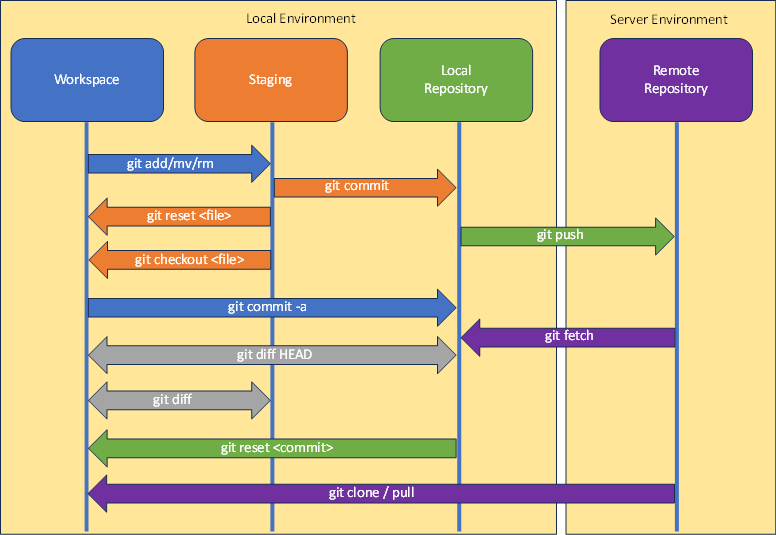
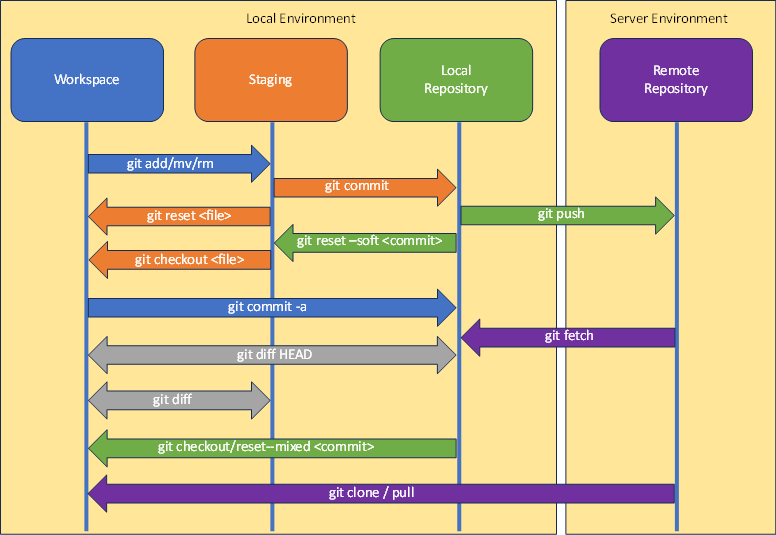
commit 2

diff --git a/readme.md b/readme.md
@@ -107,7 +107,7 @@ Agregar al último commit, este no se muestra como un nuevo commit en los logs. 
 ```ssh
 	git commit --amend -m "Texto que identifique por qué se hizo el commit"
 ```
-**`git cherry-pick`**: Aplica los cambios de un commit específico a la rama actual
+El comando `git cherry-pick` aplica los cambios de un commit específico en otra ubicación la rama actual u otra rama.
 ```ssh
 	git cherry-pick <commit_sha>
 ```
@@ -137,11 +137,24 @@ Muestra gráficos de los commits
 ```ssh
 	git log --oneline --graph
 ```
-**`git blame`**: Muestra quién modificó cada línea de un archivo y en qué commit se realizó el cambio
+El comando `git blame` muestra quién modificó cada línea de un archivo y en qué commit se realizó el cambio
 ```ssh
 	git blame <archivo>
 ```
+El comando `git reflog` examina un registro de donde han estado todas las cabezas de tus ramas mientras trabajas para encontrar commits que puedes haber perdido después de realizar operaciones como reset, rebase, checkout, entre otras.
 
+```ssh
+	git reflog
+```
+Muestra información detallada sobre un commit específico
+```ssh
+	git show <commit>
+```
+
+Muestra un resumen de todos los commits agrupados por autor.
+```ssh
+	git shortlog
+```
 ## Comparación de Archivos
 
 Muestra los cambios realizados a un archivo
@@ -150,33 +163,52 @@ Muestra los cambios realizados a un archivo
 	git diff --staged
 ```
 
-## Deshacer Cambios
+## Reset
+
+#### Tipos
+- **git reset --soft**: Este comando mueve la punta de la rama y el HEAD al commit especificado, pero conserva los cambios realizados en los commits posteriores en el área de preparación (stage). Esto significa que los cambios permanecen preparados para ser confirmados nuevamente. Es útil para deshacer un commit pero conservar los cambios para realizar ajustes antes de confirmarlos nuevamente.
+
+- **git reset --mixed**: Similar a `git reset --soft`, este comando mueve la punta de la rama y el HEAD al commit especificado, pero los cambios realizados en los commits posteriores no se colocan en el área de preparación. Los cambios permanecen en el directorio de trabajo como modificaciones no preparadas. Es útil para deshacer un commit y revisar los cambios antes de prepararlos para una nueva confirmación.
+
+- **git reset --hard**: Este comando mueve la punta de la rama y el HEAD al commit especificado, y elimina completamente los cambios realizados en los commits posteriores tanto del árbol de confirmaciones como del directorio de trabajo. Es una operación destructiva y no reversible que deshace completamente los cambios, por lo que debes tener cuidado al usarlo, ya que los cambios no confirmados se perderán permanentemente.
+
+#### Ejemplos
 
 Saca un archivo del commit
 ```ssh
 	git reset HEAD <archivo>
 ```
-Devuelve el último commit que se hizo y pone los cambios en staging
+Revierte el último commit que se hizo y pone los cambios en staging
 ```ssh
 	git reset --soft HEAD^
 ```
-Devuelve el último commit y todos los cambios
+Revierte el último commit y todos los cambios
 ```ssh
 	git reset --hard HEAD^
 ```
-Devuelve los 2 últimos commit y todos los cambios
+Revierte los 2 últimos commit y todos los cambios
 ```ssh
 	git reset --hard HEAD^^
 ```
-Rollback merge/commit
+Rollback o revertir los efectos de un `git reset` anterior, restaurando el repositorio como estaba en estado anterior.
 ```ssh
 	git log
 	git reset --hard <commit_sha>
 ```
-**`git revert`**: Crea un nuevo commit que deshace los cambios realizados en un commit específico
-```ssh
-	git revert <commit_sha>
-```
+## Revertir un Commit
+
+El comando `git revert -n <commit>` se utiliza para revertir un commit específico sin realizar automáticamente un commit después de la reversión. El argumento opcional `-n` indica que no se debe hacer un commit automático después de revertir los cambios del commit especificado. Si no se aplica el argumento, se generará un nuevo commit derivado del revert.
+
+**Intervención del Usuario**: El usuario modifica el contenido del archivo(s) afectado por el commit a revertir según sea necesario para deshacer los cambios introducidos por ese commit.
+
+`git add <archivo>`: Después de realizar las modificaciones necesarias, el usuario agrega el(s) archivo(s) modificado(s) al área de preparación para incluirlos en el próximo commit.
+
+`git commit -m "<mensaje>"`: Finalmente, el usuario hace un commit para confirmar la reversión de los cambios del commit especificado. Se proporciona un mensaje descriptivo que indique la acción realizada, como "Revertir cambios del commit `<hash>`".
+
+**Rollback**: Si se desea deshacer los cambios producidos por un `git revert` de manera más drástica y eliminar permanentemente los commits posteriores, se puede utilizar `git reset --hard <commit>`. Esto restablecerá el HEAD y el estado del directorio de trabajo al estado de un commit específico, eliminando los commits posteriores y restaurando el repositorio al estado en que estaba en ese commit. Es importante tener en cuenta que `git reset --hard` es irreversible y puede causar la pérdida permanente de datos, por lo que debe usarse con precaución.
+
+En resumen, tanto `git revert` como `git reset --hard` proporcionan formas de revertir cambios en un repositorio de Git, cada uno con sus propias implicaciones y niveles de control. El uso del argumento `-n` con `git revert` brinda la flexibilidad de realizar modificaciones adicionales antes de confirmar la reversión con un nuevo commit, mientras que `git reset --hard` ofrece una solución más drástica para deshacer los cambios y realizar un rollback en el historial de commits.
+
 
 ## Repositorios Remotos
 
@@ -224,7 +256,7 @@ Elimina sin preguntar
 	git branch -D <nameBranch>
 ```
 
-**`git bisect`**: Ayuda a encontrar el commit que introdujo un error o problema específico mediante una búsqueda binaria
+El comando `git bisect` ayuda a encontrar el commit que introdujo un error o problema específico mediante una búsqueda binaria
 ```ssh
 	git bisect start
 	git bisect bad
@@ -252,30 +284,33 @@ Eliminar una etiqueta en el repositorio remoto
 
 ## Rebase
 
-Los rebase se usan cuando trabajamos con branches esto hace que los branches se pongan al día con el master sin afectar al mismo
+El comando `git rebase` se utiliza para reorganizar, editar y combinar commits durante la integración de cambios de una rama a otra. Esto es especialmente útil cuando deseas actualizar una rama con los cambios de otra rama (como `master`) de una manera más limpia y ordenada. El rebase une el historial de commits de una rama con el de otra, aplicando los commits uno a uno en orden cronológico.
 
-Une el branch actual con el master, esto no se puede ver como un merge
-```ssh
-	git rebase
-```
-Cuando se produce un conflicto no das las siguientes opciones:
+#### Opciones del Rebase Interactivo `-i`:
 
-Cuando resolvemos los conflictos --continue continua la secuencia del rebase donde se pausó
-```ssh	
-	git rebase --continue 
-```
-Omite el conflicto y sigue su camino
-```ssh
-	git rebase --skip
-```
-Devuelve todo al principio del rebase
-```ssh
-	git rebase --abort
-```
-Para hacer un rebase a un branch en especifico
-```ssh	
-	git rebase <nameBranch>
-```
+- **Pick**: Mantiene el commit tal como está.
+
+- **Reword**: Cambia el mensaje de confirmación de un commit.
+
+- **Edit**: Detiene el rebase en un commit para realizar cambios.
+
+- **Squash**: Combina un commit con su commit anterior.
+
+- **Fixup**: Combina un commit con el commit anterior, descartando su mensaje de confirmación.
+
+- **Drop**: Elimina el commit del historial.
+
+- **Move Up** y **Move Down**: Reordena los commits durante el rebase interactivo.
+
+- **Search**: Busca un commit por su mensaje de confirmación.
+
+#### Ejemplos de Uso:
+
+- `git rebase`: Une el branch actual con el master, actualizando el branch con los cambios de master.
+- `git rebase <nameBranch>`: Realiza un rebase del branch actual a otro branch especificado.
+- `git rebase --continue`: Continúa la secuencia del rebase después de resolver conflictos.
+- `git rebase --skip`: Omite un conflicto y continúa el rebase.
+- `git rebase --abort`: Cancela el rebase y vuelve al estado previo al rebase.
 
 ## Otros Comandos
 
@@ -311,6 +346,21 @@ Borrar un archivo del repositorio
 ```ssh
 	git rm <archivo> 
 ```
+## Clean
+
+El comando `git clean` se utiliza para eliminar archivos no rastreados en el directorio de trabajo. Los archivos no rastreados son aquellos que no están bajo control de versiones de Git, es decir, que no han sido añadidos al repositorio ni incluidos en el área de preparación (staging).
+
+#### Ejemplo:
+
+Supongamos que tienes un repositorio de Git con algunos archivos no rastreados en tu directorio de trabajo. Para eliminar estos archivos no rastreados, puedes utilizar el comando `git clean`.
+
+```ssh
+# Lista los archivos no rastreados que serán eliminados (dry-run)
+	git clean -n
+
+# Elimina los archivos no rastreados
+	git clean -f
+```
 
 ## Fork
 
@@ -325,9 +375,7 @@ Merge con master de un fork
 	git merge upstream/master
 ```
 
-Falta abordar el comando `git stash`, que es útil cuando deseas guardar temporalmente cambios sin hacer commit para trabajar en otra tarea o resolver algún problema urgente.
-
-## Almacenar Cambios Temporalmente
+## Stash
 
 Guardar cambios sin hacer commit
 ```ssh
@@ -365,5 +413,181 @@ Limpiar todos los cambios almacenados en el stash
 ```ssh
 	git stash clear
 ```
+Crea una nueva rama a partir de los cambios almacenados en el stash.
+supongamos tener una rama features y queres aplicar ese cambio en otra que se llamaria hotfix 
+```ssh
+	git checkout features  # Cambia a la rama features
+	git stash              # Guarda los cambios en el stash
+	git stash branch hotfix stash@{0}  # Crea una nueva rama hotfix a partir de los cambios guardados en el stash
+```
 
 El comando `git stash` es muy útil cuando estás en medio de cambios y necesitas cambiar rápidamente a otra tarea o rama sin hacer commit de los cambios actuales. Te permite guardar temporalmente esos cambios en un "stash" y luego recuperarlos más tarde cuando estés listo para continuar trabajando en ellos.
+
+## Grep
+
+El comando `git grep` se utiliza para buscar patrones de texto en los archivos del repositorio. Funciona de manera similar al comando `grep` de Unix, pero está optimizado para trabajar con repositorios de Git.
+
+#### Ejemplo:
+
+Supongamos que deseas buscar todas las ocurrencias de una palabra específica, como "error", en los archivos de tu repositorio de Git. Puedes utilizar el comando `git grep` de la siguiente manera:
+
+```ssh
+	git grep "error"
+```
+
+Este comando buscará todas las ocurrencias de la palabra "error" en los archivos del repositorio y mostrará los resultados en la consola, junto con el nombre del archivo y la línea donde se encontró la coincidencia.
+
+Además de buscar una palabra específica, también puedes utilizar expresiones regulares con `git grep`. Por ejemplo, si deseas buscar todas las ocurrencias de números de teléfono en el repositorio, puedes hacerlo de la siguiente manera:
+
+```ssh
+	git grep "[0-9]\{3\}-[0-9]\{3\}-[0-9]\{4\}"
+```
+
+Este comando buscará todas las ocurrencias de números de teléfono en el formato XXX-XXX-XXXX en los archivos del repositorio y mostrará los resultados en la consola.
+
+`git grep` también proporciona varias opciones adicionales para personalizar la búsqueda, como buscar en un directorio específico, ignorar ciertos archivos, mostrar solo el nombre de los archivos que contienen coincidencias, entre otros. Puedes consultar la documentación de Git o ejecutar `git help grep` para obtener más información sobre estas opciones.
+
+## Submodule
+
+Los submódulos en Git son referencias a repositorios externos dentro de un repositorio principal. Permiten incluir otros repositorios como subdirectorios dentro de un proyecto más grande. Los submódulos son útiles cuando deseas incluir código de otros proyectos en tu propio proyecto, pero mantenerlos separados y gestionar sus versiones de manera independiente.
+
+#### Ejemplo:
+
+Supongamos que tienes un proyecto principal en Git y quieres agregar un submódulo que contiene una biblioteca externa. Aquí hay un ejemplo paso a paso de cómo hacerlo:
+
+1. Agrega el submódulo al repositorio principal:
+
+```ssh
+	git submodule add <URL_del_repositorio> <nombre_directorio>
+```
+
+Por ejemplo:
+
+```ssh
+	git submodule add https://ejemplo.com/repo-libreria libreria
+```
+
+2. Confirma los cambios:
+
+```ssh
+	git commit -m "Agregado submódulo de la librería"
+```
+
+3. Clona el repositorio principal (incluyendo submódulos) en otro lugar:
+
+```ssh
+	git clone --recursive <URL_del_repositorio_principal>
+```
+
+El uso de `--recursive` asegura que los submódulos también se clonen correctamente.
+
+4. Para actualizar el submódulo a la última versión:
+
+```ssh
+	git submodule update --remote <nombre_directorio>
+```
+
+Por ejemplo, si el directorio del submódulo se llama `libreria`:
+
+```ssh
+	git submodule update --remote libreria
+```
+
+5. Confirma los cambios en el repositorio principal para registrar la actualización del submódulo:
+
+```ssh
+	git commit -am "Actualizado submódulo de la librería"
+```
+
+Estos pasos te permitirán agregar, actualizar y gestionar submódulos en tu proyecto de Git de manera efectiva. Los submódulos son una herramienta útil para trabajar con código de otros proyectos dentro de tu propio repositorio, manteniendo la independencia y la gestión de versiones de manera ordenada.
+
+## Mover o Copiar archivos
+
+Git no tiene un único comando que pueda copiar o mover archivos directamente entre ramas. Sin embargo, hay formas más concisas de lograr esto en menos pasos.
+
+Para copiar un archivo de una rama a otra:
+
+```ssh
+git checkout origen -- ruta/al/archivo && git checkout destino && git add ruta/al/archivo
+```
+
+Explicación:
+- `git checkout origen -- ruta/al/archivo` extrae el archivo de la rama origen al área de trabajo
+- `git checkout destino` cambia a la rama destino
+- `git add ruta/al/archivo` agrega el archivo al área de preparación en la rama destino
+
+Para mover un archivo de una rama a otra:
+
+```ssh
+git mv -k origen destino -- ruta/al/archivo && git commit
+```
+
+Explicación:
+- `git mv -k origen destino -- ruta/al/archivo` mueve el archivo del árbol de la rama origen al de la rama destino
+- `git commit` confirma los cambios en la rama destino
+
+Estas son formas más cortas, pero aún requieren varios comandos encadenados. Git no tiene un comando único para esta tarea porque mover/copiar archivos entre ramas implica cambios en más de una rama, lo cual va en contra del modelo de ramificación de Git donde las ramas son líneas de desarrollo independientes.
+
+## Worktree
+Permite acoplar tantos directorios externos como necesites al mismo repositorio Git, cada uno apuntando a una rama o commit diferente. Esto brinda una gran flexibilidad y aislamiento en tu flujo de trabajo.
+
+
+
+Un ejemplo sencillo:
+
+Supongamos que estás trabajando en la rama `master` de un proyecto y necesitas hacer algunos cambios experimentales en una nueva rama `feature`. Normalmente tendrías que cambiar de rama con `git checkout feature`. Pero con `git worktree`, puedes crear un nuevo árbol de trabajo para la rama `feature` sin abandonar `master`:
+
+```ssh
+# Crear un nuevo árbol de trabajo para la rama feature
+git worktree add -b feature ../feature-worktree
+
+# Esto creará un nuevo directorio feature-worktree que estará en la rama feature
+```
+
+Ahora puedes ir a `../feature-worktree` y trabajar allí en la rama `feature` haciendo commits, etc. Mientras que en el directorio original puedes continuar trabajando en `master`.
+
+Cuando termines con la rama `feature`, puedes fusionarla a `master` desde cualquiera de los dos árboles de trabajo.
+
+Otras operaciones útiles con `git worktree`:
+
+- `git worktree list` - Listar todos los árboles de trabajo
+- `git worktree remove ../feature-worktree` - Eliminar un árbol de trabajo
+
+`git worktree` es una herramienta poderosa que puede mejorar significativamente el flujo de trabajo al permitir trabajar en múltiples ramas o commits de manera aislada pero eficiente.
+
+## Archive
+
+Crea un archivo comprimido que contiene todos los archivos y directorios de un commit o rama específica, excluyendo el directorio `.git` y el historial de versiones. Es como si tomaras una "instantánea" del código en ese punto en el tiempo.
+
+Ejemplo sencillo:
+
+Supongamos que queremos crear un archivo zip con el contenido de la rama `master` de nuestro proyecto.
+
+1. Abrimos una terminal y navegamos hasta el directorio del repositorio.
+
+2. Ejecutamos el siguiente comando:
+
+```
+git archive --format=zip --output=proyecto.zip master
+```
+
+Explicación de los argumentos:
+- `--format=zip`: Especifica el formato de salida como un archivo zip.
+- `--output=proyecto.zip`: Indica el nombre del archivo de salida (en este caso, `proyecto.zip`).
+- `master`: Especifica la rama o commit del que se creará el archivo. En este ejemplo, usamos la rama `master`.
+
+3. Después de ejecutar el comando, se creará un archivo llamado `proyecto.zip` en el mismo directorio.
+
+4. Puedes compartir o distribuir este archivo `proyecto.zip` con otros usuarios. Cuando lo descompriman, obtendrán una copia del contenido del código en la rama `master`, sin incluir el directorio `.git` ni el historial de versiones.
+
+Otro ejemplo sencillo:
+
+Si quisieras crear un archivo tar.gz (comprimido con gzip) del commit `abc123` en lugar de una rama, podrías usar el siguiente comando:
+
+```
+git archive --format=tar.gz --output=proyecto.tar.gz abc123
+```
+
+Esto creará un archivo `proyecto.tar.gz` que contendrá el código en el estado del commit `abc123`.
+
+`git archive` es útil cuando necesitas distribuir o compartir una "instantánea" del código sin incluir todo el historial de versiones, lo que puede ahorrar espacio y facilitar la distribución.
